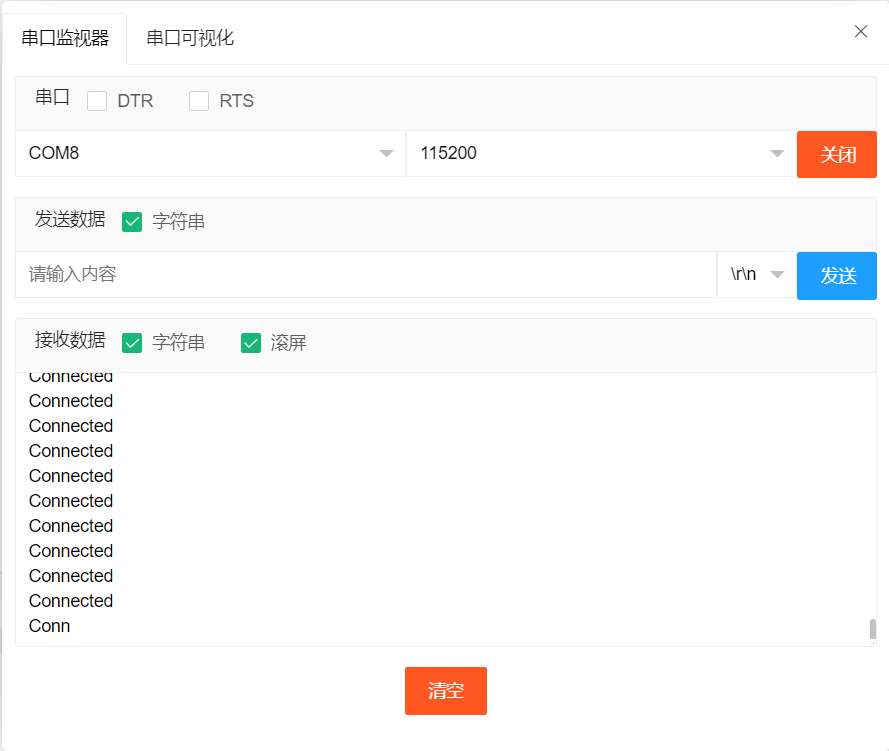
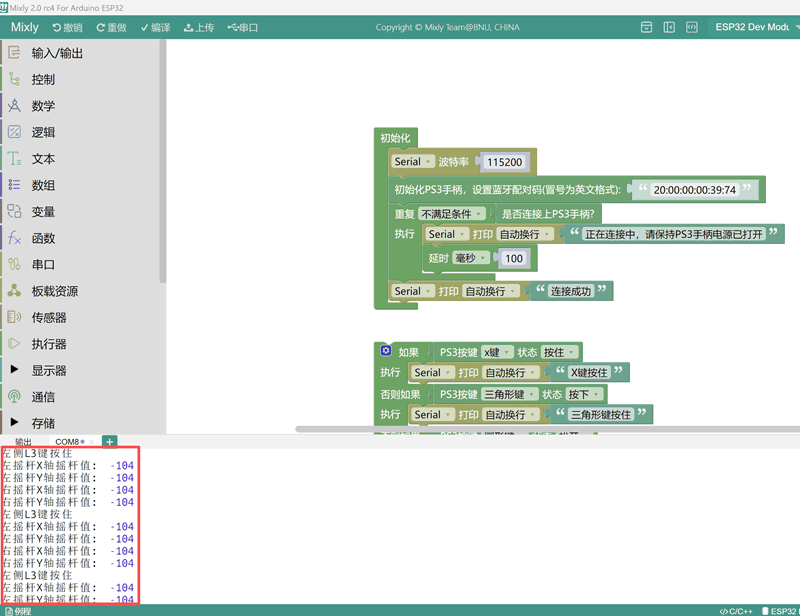
修改注意事项的显示风格

diff --git a/docs/zh-cn/esp32/maker_esp32/maker_esp32.md b/docs/zh-cn/esp32/maker_esp32/maker_esp32.md
@@ -62,9 +62,9 @@
 | IO       | 12、14、15、17、34、35、36、39     |
 
 !> 注:
-!> 1. Motor and IO Switch: 当拨码开关打到IO口端时，M3、M4电机端口不工作，不能驱动电机，引脚为普通端口；当拨码开关打到M3A/M3B/M4A/M4B时，M3、M4为电机端口，可以驱动电机/步进电机。
-!> 2. 因为ESP32芯片特性，主板的34、35、36、39引脚不能作为输出；并且34、35、36、39引脚做为输入时，不能设置上拉或下拉模式。
-!> 3. 在同时使用电机和舵机时，请保持PWM通道不要冲突。
+ 1. Motor and IO Switch: 当拨码开关打到IO口端时，M3、M4电机端口不工作，不能驱动电机，引脚为普通端口；当拨码开关打到M3A/M3B/M4A/M4B时，M3、M4为电机端口，可以驱动电机/步进电机。
+ 2. 因为ESP32芯片特性，主板的34、35、36、39引脚不能作为输出；并且34、35、36、39引脚做为输入时，不能设置上拉或下拉模式。
+ 3. 在同时使用电机和舵机时，请保持PWM通道不要冲突。
 
 <a href="zh-cn/esp32/maker_esp32/Esp32_V1.5.pdf" target="_blank">点击查看Maker-ESP32原理图</a></br>
 <a href="zh-cn/esp32/maker_esp32/maker-esp32_3D.zip" target="_blank">点击下载Maker-ESP32三维模型图</a>
@@ -98,7 +98,7 @@
 | 黄色       | A04 (2)    |
 
 <a href="zh-cn/esp32/maker_esp32/esp32_mixly/ps3_controller.zip" download>点击下载PS3控制电机舵机程序</a></br>
-使用PS3控制电机舵机程序时，需Mixly云端导入易创空间PS3蓝牙手柄库。PS3手柄左侧L1/L2按键控制26号引脚舵机，右侧R1/R2按键控制25号引脚舵机，叉和三角形按键控制33号引脚舵机，正方形按键和圆形按键控制32号引脚舵机；方向键控制四个电机正反转和左右转，左摇杆X轴控制M0电机，左摇杆Y轴控制M1电机，右摇杆X轴控制M2电机，右摇杆Y轴控制M3电机, SELECT/START键控制灯光</br>
+使用PS3控制电机舵机程序时，需Mixly云端导入易创空间PS3蓝牙手柄库([点击查看PS3蓝牙手柄文档](/zh-cn/peripheral/bluetooth_gamepad_ps3/bluetooth_gamepad_ps3.md))。PS3手柄左侧L1/L2按键控制26号引脚舵机，右侧R1/R2按键控制25号引脚舵机，叉和三角形按键控制33号引脚舵机，正方形按键和圆形按键控制32号引脚舵机；方向键控制四个电机正反转和左右转，左摇杆X轴控制M0电机，左摇杆Y轴控制M1电机，右摇杆X轴控制M2电机，右摇杆Y轴控制M3电机, SELECT/START键控制灯光</br>
 
 ## Arduino示例程序(ESP32版本>=3.0.0)
 

diff --git a/docs/zh-cn/esp32/maker_esp32_pro/maker_esp32_pro.md b/docs/zh-cn/esp32/maker_esp32_pro/maker_esp32_pro.md
@@ -59,9 +59,9 @@
 | IO       | 12、14、15、17、34、35、36、39     |
 
 !> 注:
-!> 1. Motor and IO Switch: 当拨码开关打到IO口端时，M3、M4电机端口不工作，不能驱动电机，引脚为普通端口；当拨码开关打到M3A/M3B/M4A/M4B时，M3、M4为电机端口，可以驱动电机/步进电机。
-!> 2. 因为ESP32芯片特性，主板的34、35、36、39引脚不能作为输出；并且34、35、36、39引脚做为输入时，不能设置上拉或下拉模式。
-!> 3. 在同时使用电机和舵机时，请保持PWM通道不要冲突。
+ 1. Motor and IO Switch: 当拨码开关打到IO口端时，M3、M4电机端口不工作，不能驱动电机，引脚为普通端口；当拨码开关打到M3A/M3B/M4A/M4B时，M3、M4为电机端口，可以驱动电机/步进电机。
+ 2. 因为ESP32芯片特性，主板的34、35、36、39引脚不能作为输出；并且34、35、36、39引脚做为输入时，不能设置上拉或下拉模式。
+ 3. 在同时使用电机和舵机时，请保持PWM通道不要冲突。
 
 <a href="zh-cn/esp32/maker_esp32_pro/maker-esp32_pro_sch.pdf" target="_blank">点击查看Maker-ESP32-Pro原理图</a></br>
 <a href="zh-cn/esp32/maker_esp32_pro/maker-esp32-pro_3D.zip" target="_blank">点击下载Maker-ESP32-Pro三维模型图</a>
@@ -85,7 +85,8 @@ Mixly云端导入易创空间Maker-ESP32-Pro库和PS3蓝牙手柄库，如下图
 <a href="https://gitee.com/emakefun_mixly_lib/maker_esp32_pro/releases/download/V1.0.0/maker-esp32-pro-mixly.zip" download>点击下载编码电机Mixly库</a>   <a href="https://gitee.com/emakefun_mixly_lib/ps3-bluetooth-handle/releases/download/V1.0.0/ps3-bluetooth-handle.zip" download>点击下载PS3蓝牙手柄Mixly库</a>再本地导入库，如下图</br>
 ![Mixly云端导入库](picture/mixly_install_local_lib.png)
 
-米思齐示例如下，点击对应的案例就可以看到对应的程序。
+米思齐示例如下，点击对应的案例就可以看到示例程序。
+
 ![Mixly示例](picture/mixly_example_pic.png)
 
 ## Mind+示例程序

diff --git a/docs/zh-cn/esp32/maker-esp32-mini/maker-esp32-mini.md b/docs/zh-cn/esp32/maker-esp32-mini/maker-esp32-mini.md
@@ -68,10 +68,9 @@ Maker-ESP32-Mini是基于乐鑫科技的 <a href="https://documentation.espressi
 | BOOT按键  |    0             |
 
 !> 注:
-
-1. Motor and IO Switch: 当拨码开关打到IO口端时，M2、M3电机端口不工作，不能驱动电机，引脚为普通端口；当拨码开关打到M3A/M3B/M4A/M4B时，M2、M3为电机端口，可以驱动电机。</br>
-2. 因为ESP32芯片特性，在Arduino框架下，主板的34、35、36、39引脚不能作为输出；并且34、35、36、39引脚做为输入时，不能设置上拉或下拉模式。</br>
-3. 在同时使用电机和舵机时，请保持PWM通道不要冲突。</br>
+!> 1. Motor and IO Switch: 当拨码开关打到IO口端时，M2、M3电机端口不工作，不能驱动电机，引脚为普通端口；当拨码开关打到M3A/M3B/M4A/M4B时，M2、M3为电机端口，可以驱动电机。</br>
+!> 2. 因为ESP32芯片特性，在Arduino框架下，主板的34、35、36、39引脚不能作为输出；并且34、35、36、39引脚做为输入时，不能设置上拉或下拉模式。</br>
+!> 3. 在同时使用电机和舵机时，请保持PWM通道不要冲突。</br>
 
 <a href="zh-cn\esp32\maker-esp32-mini\maker-esp32-mini_sch.pdf" target="_blank">点击查看Maker-ESP32-Mini原理图</a></br>
 <a href="zh-cn/esp32/maker_esp32_pro/maker-esp32-mini_3D.zip" target="_blank">点击下载Maker-ESP32-Mini三维模型图</a>

diff --git a/docs/zh-cn/peripheral/bluetooth_gamepad_ps3/bluetooth_gamepad_ps3.md b/docs/zh-cn/peripheral/bluetooth_gamepad_ps3/bluetooth_gamepad_ps3.md
@@ -177,12 +177,11 @@
 
 #### 5.2.2 输入蓝牙配对码并运行示例代码
 
-点击此处链接查看<a href="zh-cn/peripheral/bluetooth_gamepad_ps3/ps3按键测试.zip" download>mixly示例程序下载</a>
-
-参照示例编写程序或使用示例程序，注意输入手柄背面的蓝牙配对码，每个手柄在出厂时已设置不同的配对码。
+点击左下角例程按钮，选择ps3-bluetooth-handle库，点击PS3手柄测试程序，注意输入手柄背面的蓝牙配对码，每个手柄在出厂时已设置不同的配对码。并上传，上传成功后，开启PS3手柄，等待串口出现 `连接成功` 就可以看到串口打印出操作各个按键的信息。
 
 ![示例程序](./picture/mixly_example.png)
 
+![串口日志](./picture/14.png)
 ### 5.3 Mind+
 
 #### 5.3.1 安装库
